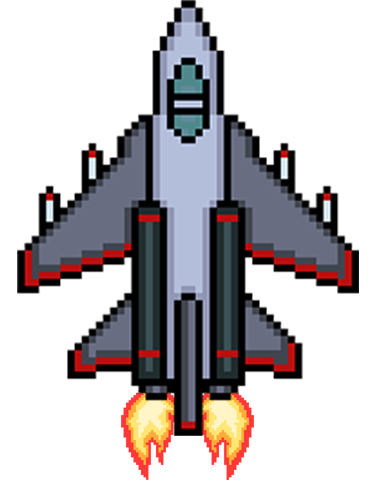
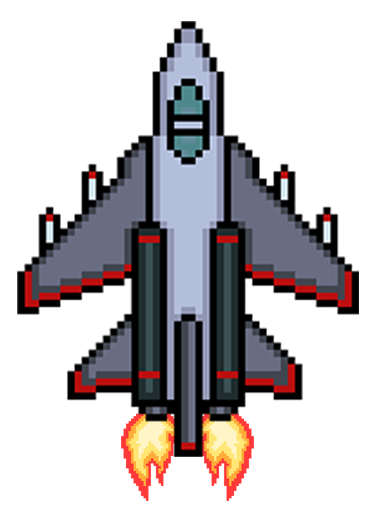
Added invisible player image

diff --git a/src/main/java/com/game/firstgame/Controller.java b/src/main/java/com/game/firstgame/Controller.java
@@ -38,9 +38,10 @@ public class Controller implements Initializable {
     private int BACKGROUND_HEIGHT = 750;
     private ParallelTransition parallelTransition;
     private PlayerAnimation playerAnimation;
+    private PlayerAnimationInvisible playerAnimationInvisible;
     private int missileCounter = 49;
     private int switchMissile = 0;
-    private int counter = 0;
+    private boolean missileFired = false;
 
     private TranslateTransition transition;
     private ArrayList<ImageView> missiles;
@@ -98,6 +99,7 @@ public class Controller implements Initializable {
         movementSetup();
 
         playerAnimation = new PlayerAnimation(player);
+        playerAnimationInvisible = new PlayerAnimationInvisible(player);
         loopingBackground();
         parallelTransition.play();
 
@@ -105,19 +107,9 @@ public class Controller implements Initializable {
         enemies = new ArrayList<>();
         enemyLocation = new ArrayList<>();
         for (int i = 0; i < 5; i++) {
-            spawnEnemies(i);
+            spawnEnemies();
         }
 
-
-        /*
-        if (!enemies.isEmpty()) {
-            for (int i = 0; i < enemies.size(); i++) {
-                enemies.get(0).translateXProperty().addListener(listener);
-                enemies.get(0).translateYProperty().addListener(listener);
-            }
-        }
-
-         */
 
         missiles = new ArrayList<>();
         translations = new ArrayList<>();
@@ -199,6 +191,7 @@ public class Controller implements Initializable {
                 player.translateXProperty().addListener(listener);
                 player.translateYProperty().addListener(listener);
 
+
                 for (ImageView enemy : enemies) {
                     enemy.translateXProperty().addListener(listener);
                     enemy.translateYProperty().addListener(listener);
@@ -211,6 +204,13 @@ public class Controller implements Initializable {
 
                 missileCounter--;
                 missiles.remove(missiles.size() - 1);
+                missileFired = true;
+
+                Image changePlayer = new Image("com/game/firstgame/images/SpaceInvaderAnim/Space-Invaders-Ship.png");
+                player.setImage(changePlayer);
+                if(Boolean.FALSE.equals(sPressed.getValue())){
+                    playerAnimation.startAnimation();
+                }
             }
         });
 
@@ -221,19 +221,36 @@ public class Controller implements Initializable {
         // MOVEMENT
         keyPressed.addListener(((observableValue, aBoolean, t1) -> {
             if(!aBoolean){
-                timer.start();
-
-                if(Boolean.FALSE.equals(sPressed.getValue())){
-                    playerAnimation.startAnimation();
+                if (!missileFired) {
+                    timer.start();
+                    if(Boolean.FALSE.equals(sPressed.getValue())){
+                        playerAnimationInvisible.startAnimation();
+                    }
+                    else {
+                        playerAnimationInvisible.stopAnimation();
+                    }
                 }
                 else {
-                    playerAnimation.stopAnimation();
+                    timer.start();
+                    if(Boolean.FALSE.equals(sPressed.getValue())){
+                        playerAnimation.startAnimation();
+                    }
+                    else {
+                        playerAnimation.stopAnimation();
+                    }
                 }
+
 
 
             } else {
-                timer.stop();
-                playerAnimation.stopAnimation();
+                if (!missileFired) {
+                    timer.stop();
+                    playerAnimationInvisible.stopAnimation();
+                }
+                else {
+                    timer.stop();
+                    playerAnimation.stopAnimation();
+                }
             }
         }));
 
@@ -242,7 +259,7 @@ public class Controller implements Initializable {
 
 
     // ENEMY
-    public void spawnEnemies(int i){
+    public void spawnEnemies(){
         Random rand = new Random();
         PathTransition move = new PathTransition();
 

diff --git a/src/main/java/com/game/firstgame/PlayerAnimationInvisible.java b/src/main/java/com/game/firstgame/PlayerAnimationInvisible.java
@@ -1,0 +1,44 @@
+package com.game.firstgame;
+
+import javafx.animation.Animation;
+import javafx.animation.KeyFrame;
+import javafx.animation.Timeline;
+import javafx.scene.image.Image;
+import javafx.scene.image.ImageView;
+import javafx.util.Duration;
+
+import java.io.File;
+
+public class PlayerAnimationInvisible {
+    private ImageView runner;
+    int number = 1;
+
+    Timeline timeline = new Timeline(new KeyFrame(Duration.seconds(0.1), event -> {
+        if(number == 1){
+            runner.setImage(new Image("com/game/firstgame/images/SpaceInvaderAnim/Invisible/invisible_move1.png"));
+            number = 2;
+        } else if( number == 2){
+            runner.setImage(new Image("com/game/firstgame/images/SpaceInvaderAnim/Invisible/invisible_move2.png"));
+            number = 3;
+        }
+        else {
+            runner.setImage(new Image("com/game/firstgame/images/SpaceInvaderAnim/Invisible/invisible_move3.png"));
+            number = 1;
+        }
+    }));
+
+    public PlayerAnimationInvisible(ImageView runner) {
+        this.runner = runner;
+        timeline.setCycleCount(Animation.INDEFINITE);
+    }
+
+    public void startAnimation(){
+        timeline.play();
+    }
+
+    public void stopAnimation(){
+        runner.setImage(new Image("com/game/firstgame/images/SpaceInvaderAnim/Invisible/invisible_idle.png"));
+        number = 1;
+        timeline.stop();
+    }
+}
